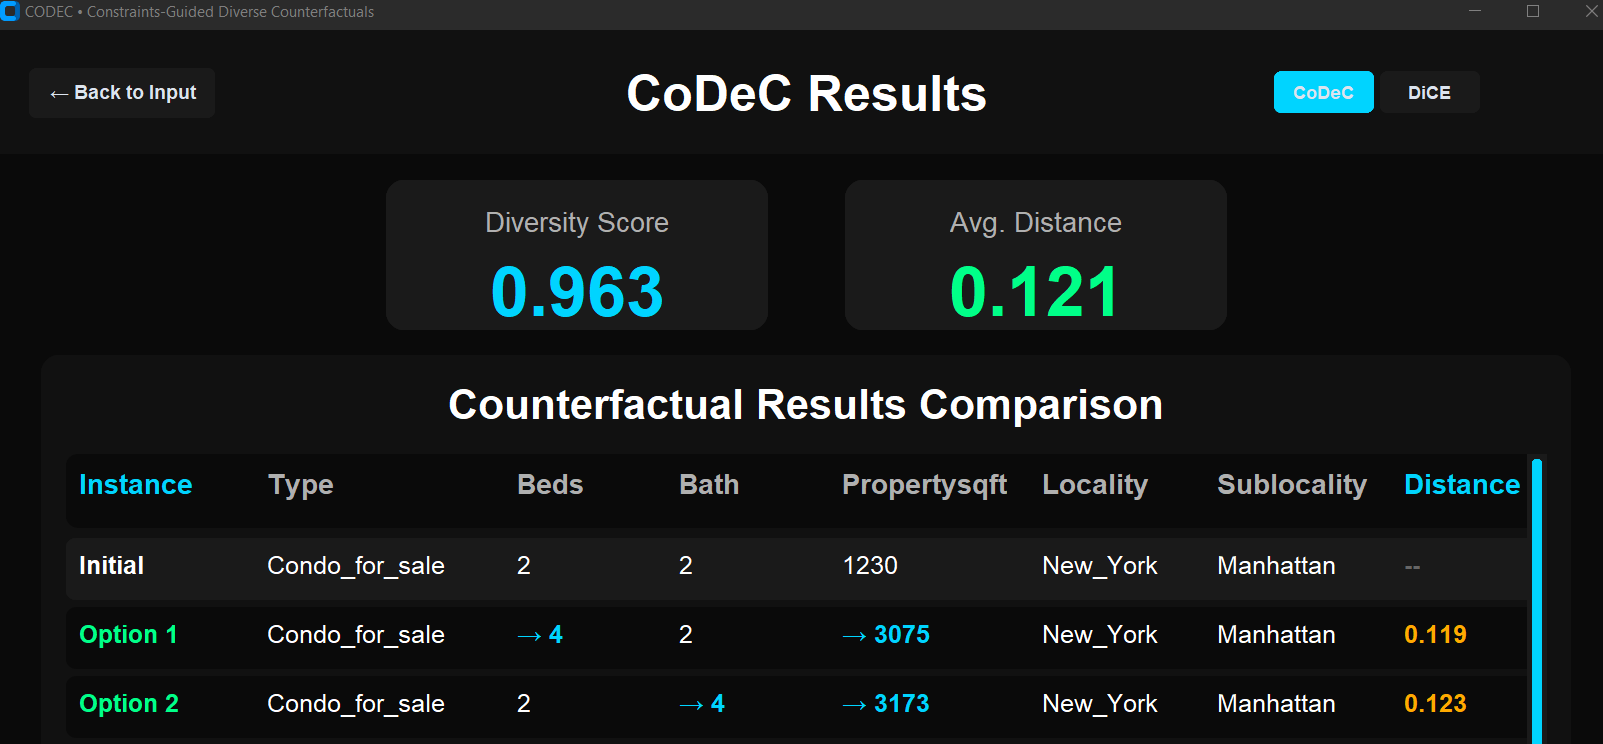
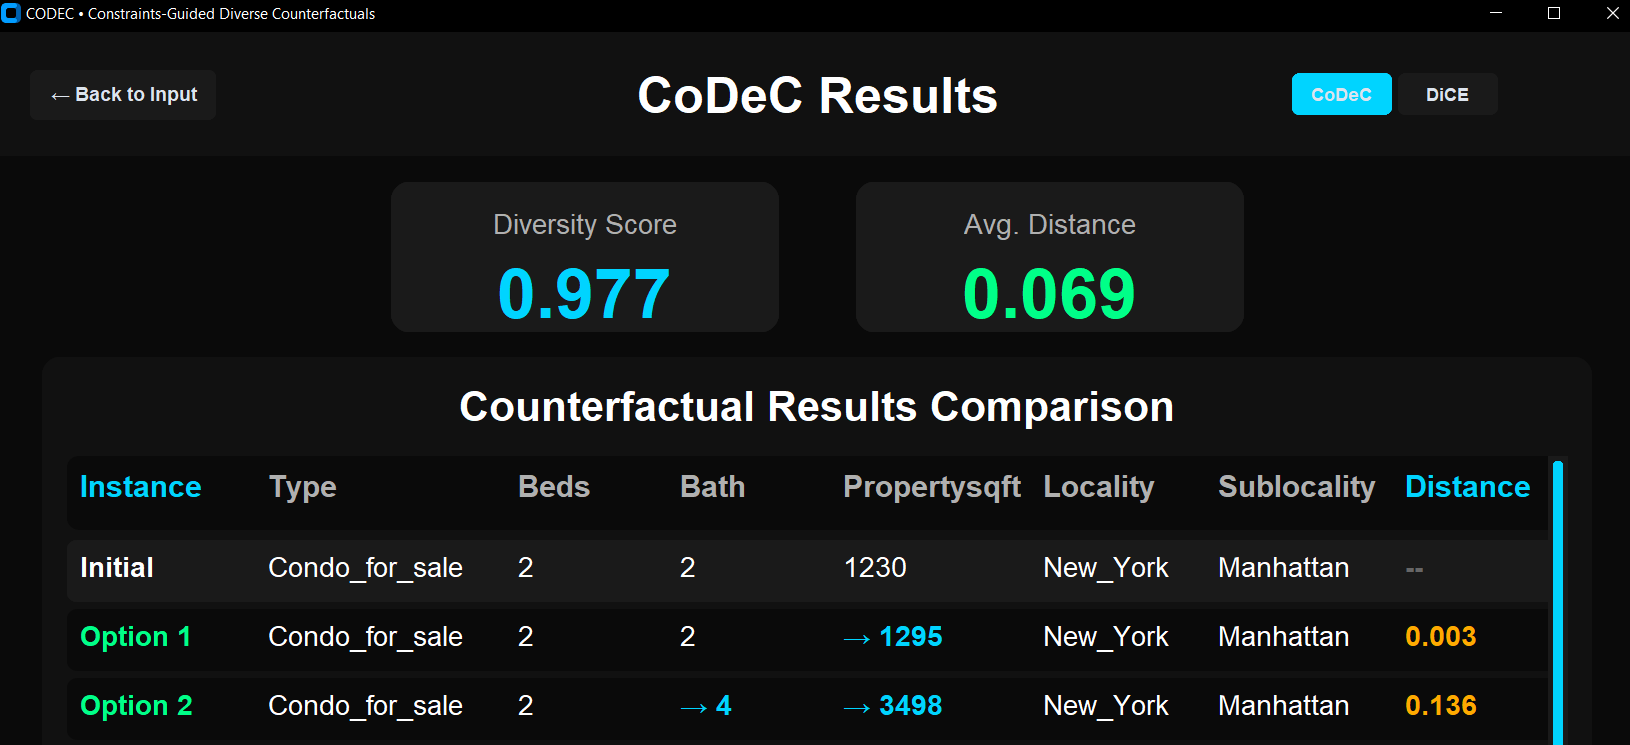
Determinism fixed

diff --git a/gui.py b/gui.py
@@ -24,9 +24,30 @@ import bisect
 from contextlib import contextmanager
 import numbers
 
-seed = 42
+seed = 1
 random.seed(seed)
 np.random.seed(seed)
+torch.manual_seed(seed)
+torch.cuda.manual_seed(seed)
+torch.cuda.manual_seed_all(seed)
+torch.backends.cudnn.deterministic = True
+torch.backends.cudnn.benchmark = False
+os.environ['PYTHONHASHSEED'] = str(seed)
+diversity_seed = seed
+import hashlib
+
+
+def deterministic_hash(obj):
+    """Create a deterministic hash for any object"""
+    if isinstance(obj, dict):
+        # Sort items to ensure consistent ordering
+        items = sorted(obj.items())
+        str_repr = str(items)
+    else:
+        str_repr = str(obj)
+
+    # Use MD5 for speed (truncate to fit in int32)
+    return int(hashlib.md5(str_repr.encode()).hexdigest()[:8], 16)
 
 def extract_names_and_conditions(line):
     constraints = []
@@ -230,19 +251,27 @@ def project_constraints_exact_fast(row, cf_example, fixed_feat, cont_feat, dic_c
     # More efficient: use numeric hash instead of string operations
     original_instance = cf_example.test_instance_df.iloc[0]
 
+    # Deterministic hashing
+    instance_data = {col: original_instance[col] for col in fixed_feat if col in original_instance.index}
+    instance_hash = deterministic_hash(instance_data)
+
+    row_hash = deterministic_hash(dict(sorted(row.items())))
+
+    projection_seed = ((instance_hash ^ row_hash) + diversity_seed * 1000000) % (2 ** 31)
+
     # Hash immutable parts (for consistency)
-    instance_hash = 0
-    for col in fixed_feat:
-        if col in original_instance.index:
-            instance_hash ^= hash((col, original_instance[col]))
-
-    # Hash current row (for diversity)
-    row_hash = 0
-    for col, val in row.items():
-        row_hash ^= hash((col, val))
-
-    # Combine with XOR (very fast)
-    projection_seed = (instance_hash ^ row_hash) % (2 ** 31)
+    # instance_hash = 0
+    # for col in fixed_feat:
+    #     if col in original_instance.index:
+    #         instance_hash ^= hash((col, original_instance[col]))
+    #
+    # # Hash current row (for diversity)
+    # row_hash = 0
+    # for col, val in row.items():
+    #     row_hash ^= hash((col, val))
+    #
+    # # Combine with XOR (very fast)
+    # projection_seed = (instance_hash ^ row_hash) % (2 ** 31)
     # print(f'$$$$$$$$$$$$$$$$$SEED IS {projection_seed}$$$$$$$$$$$$$$$$$$$$$')
     local_rng = np.random.RandomState(projection_seed)
     # Reset timeout flag and start timer
@@ -321,8 +350,8 @@ def project_constraints_exact_fast(row, cf_example, fixed_feat, cont_feat, dic_c
                     res = smart_project_optimized_safe(row_val, comb[-1], dataset, cont_feat, constraints, dic_cols, cons_function)
                     if res is not None:
                         row_val[comb[-1]] = res
-                        print('Success')
-                        print(row_val)
+                        # print('Success')
+                        # print(row_val)
                         return row_val
         else:
             return None
@@ -485,7 +514,7 @@ def timed_section(name, queue=None):
         queue.put({'type': 'progress', 'text': msg})
 
 def bfs_counterfactuals(exp, threshold, model, fixed_feat, exp_random, df, cont_feat, d, dic_cols, constraints,
-                        cons_function, cons_feat, unary_cons_lst_single,bin_cons, transformer, progress_queue=None):
+                        cons_function, cons_feat, unary_cons_lst_single,bin_cons, transformer, progress_queue=None,max_iter = 50):
     with timed_section("Projecting counterfactuals", progress_queue):
         projected_cfs = project_counterfactuals(exp, df, cont_feat, d, fixed_feat, dic_cols, constraints, cons_function,
                                                 cons_feat, unary_cons_lst_single,bin_cons)
@@ -520,10 +549,10 @@ def bfs_counterfactuals(exp, threshold, model, fixed_feat, exp_random, df, cont_
             try:
                 dice_exp_random = exp_random.generate_counterfactuals(not_accepted, total_CFs=threshold,
                                                                       desired_class=1,
-                                                                      verbose=True,
+                                                                      verbose=False,
                                                                       learning_rate=0.1,  # Increased
                                                                       min_iter=5,  # Reduced
-                                                                      max_iter=50,  # Reduced
+                                                                      max_iter=max_iter,  # Reduced
                                                                       features_to_vary=features_to_vary)
             except:
                 break
@@ -689,7 +718,7 @@ def smart_project(row_val, val_col, dataset, cont_feat, constraints, dic_cols, c
     return possible_values[0]
 
 def code_counterfactuals(query_instances, constraints_path, dataset_path, fixed_feat, k,
-                         model_cache, transformer_cache, constraints_cache, progress_queue=None):
+                         model_cache, transformer_cache, constraints_cache, progress_queue=None,max_iter = 50):
     """Modified to use caches and progress queue and return both DiCE and CoDeC results"""
 
     def send_progress(message):
@@ -755,7 +784,7 @@ def code_counterfactuals(query_instances, constraints_path, dataset_path, fixed_
             train_loader = DataLoader(
                 TensorDataset(torch.from_numpy(X_train_fixed), torch.Tensor(y_train.values.astype('int'))),
                 64, shuffle=True)
-            model = pretrain(model, 'cpu', train_loader, lr=1e-4, epochs=1000)
+            model = pretrain(model, 'cpu', train_loader, lr=1e-4, epochs=100)
             torch.save(model.state_dict(), model_state_dict_path)
             print('Model trained and saved to disk')
 
@@ -775,11 +804,12 @@ def code_counterfactuals(query_instances, constraints_path, dataset_path, fixed_
         query_instances,
         total_CFs=k,
         desired_class=1,
-        verbose=True,
+        verbose=False,
         features_to_vary=features_to_vary,
         min_iter=5,  # Reduced
-        max_iter=50,  # Reduced
+        max_iter=max_iter,  # Reduced
         learning_rate=0.1  # Increased
+        # learning_rate=5e-2  # Increased
     )
     dice_exp_random.cf_examples_list[0].final_cfs_df_sparse.to_csv('dice_gui.csv')
     with pd.option_context('display.max_rows', None,
@@ -791,13 +821,14 @@ def code_counterfactuals(query_instances, constraints_path, dataset_path, fixed_
     # STORE DICE RESULTS
     dice_cfs = dice_exp_random.cf_examples_list[0].final_cfs_df_sparse.drop('label', axis=1)
     dice_cfs_processed, dice_dpp_score, dice_distances = n_best_cfs_heuristic(dice_cfs, query_instances.iloc[0], k, transformer, exp_random)
+
     # with open('dice_gui_metrics.pkl', 'wb') as f:
     #     pickle.dump((dice_cfs_processed, dice_dpp_score, dice_distances), f)
 
     send_progress("Running BFS for constraint satisfaction")
     codec_cfs = bfs_counterfactuals(dice_exp_random, k, model, fixed_feat, exp_random, df, cont_feat, d,
                                    dic_cols, constraints, cons_function, cons_feat, unary_cons_lst_single, bin_cons, transformer,
-                                   progress_queue)
+                                   progress_queue,max_iter = max_iter)
 
     codec_cfs_processed, codec_dpp_score, codec_distances = n_best_cfs_heuristic(codec_cfs, query_instances.iloc[0], k, transformer, exp_random)
     # with open('codec_gui_metrics.pkl', 'wb') as f:
@@ -1559,6 +1590,20 @@ class ModernCounterfactualGUI:
         self.cf_count_label.configure(text=str(int(value)))
         self.num_counterfactuals.set(str(int(value)))
 
+    def set_initial_instance_defaults(self, default_values):
+        """Set default values for initial instance inputs"""
+        if not hasattr(self, 'initial_point_widgets') or not self.initial_point_widgets:
+            return
+
+        for column, value in default_values.items():
+            if column in self.initial_point_widgets:
+                widget = self.initial_point_widgets[column]
+                if isinstance(widget, ctk.CTkComboBox):
+                    widget.set(value)
+                else:  # CTkEntry
+                    widget.delete(0, 'end')
+                    widget.insert(0, value)
+
     def load_dataset_preview(self):
         """Load and display dataset preview"""
         try:
@@ -1573,6 +1618,40 @@ class ModernCounterfactualGUI:
 
             # Update features list
             self.setup_features_selection()
+
+            dataset_name = self.dataset_path.get()
+
+            if "nyhouse" in dataset_name:
+                # Set defaults for nyhouse dataset
+                default_values = {
+                    'type': 'Condo_for_sale',
+                    'beds': '1',
+                    'bath': '0',
+                    'propertysqft': '1230',
+                    'locality': 'Bronx_County',
+                    'sublocality': 'Manhattan'
+                }
+                self.set_initial_instance_defaults(default_values)
+
+            elif "adult_clean" in dataset_name:
+                # Set defaults for adult_clean dataset
+                default_values = {
+                    'age': '28',
+                    'workclass': 'State_gov',
+                    'education': 'Bachelors',
+                    'education_num': '13',
+                    # 'marital_status': 'Divorced',
+                    'marital_status': 'Married_civ_spouse',
+                    'occupation': 'Machine_op_inspct',
+                    # 'relationship': 'Husband',
+                    'relationship': 'Wife',
+                    'race': 'Black',
+                    'sex': 'Female',
+                    # 'hours_per_week': '1',
+                    'hours_per_week': '45',
+                    'native_country': 'United_States'
+                }
+                self.set_initial_instance_defaults(default_values)
 
         except Exception as e:
             print(f"Dataset loading error: {e}")  # Debug print
@@ -2425,7 +2504,8 @@ class ModernCounterfactualGUI:
                 model_cache=self.cached_models,
                 transformer_cache=self.cached_transformers,
                 constraints_cache=self.cached_constraints,
-                progress_queue=self.computation_queue
+                progress_queue=self.computation_queue,
+                max_iter = 15 if 'adult_clean' in self.dataset_path.get() else 500
             )
 
             # Extract both DiCE and CoDeC results
@@ -2647,7 +2727,7 @@ class ModernCounterfactualGUI:
         instance_header = ctk.CTkLabel(
             header_inner,
             text="Instance",
-            font=("SF Pro Display", 22, "bold"),
+            font=("SF Pro Display", 24, "bold"),
             text_color=self.colors['accent'],
             width=col_widths['Instance'],
             anchor='w'
@@ -2660,7 +2740,7 @@ class ModernCounterfactualGUI:
             header_label = ctk.CTkLabel(
                 header_inner,
                 text=feature.replace('_', ' ').title(),
-                font=("SF Pro Display", 22, "bold"),
+                font=("SF Pro Display", 24, "bold"),
                 text_color=self.colors['text_secondary'],
                 width=width,
                 anchor='w'
@@ -2671,7 +2751,7 @@ class ModernCounterfactualGUI:
         distance_header = ctk.CTkLabel(
             header_inner,
             text="Distance",
-            font=("SF Pro Display", 22, "bold"),
+            font=("SF Pro Display", 24, "bold"),
             text_color=self.colors['accent'],
             width=col_widths['Distance'],
             anchor='w'
@@ -2715,7 +2795,7 @@ class ModernCounterfactualGUI:
             instance_label = ctk.CTkLabel(
                 row_inner,
                 text=label_text,
-                font=("SF Pro Display", 20, "bold"),
+                font=("SF Pro Display", 22, "bold"),
                 text_color=label_color,
                 width=col_widths['Instance'],
                 anchor='w'
@@ -2745,7 +2825,7 @@ class ModernCounterfactualGUI:
                 value_label = ctk.CTkLabel(
                     row_inner,
                     text=value_text,
-                    font=("SF Pro Display", 20, "bold" if changed else "normal"),
+                    font=("SF Pro Display", 22, "bold" if changed else "normal"),
                     text_color=self.colors['accent'] if changed else self.colors['text_primary'],
                     width=width,
                     anchor='w'
@@ -2757,7 +2837,7 @@ class ModernCounterfactualGUI:
             dist_label = ctk.CTkLabel(
                 row_inner,
                 text=dist_text,
-                font=("SF Pro Display", 20, "bold"),
+                font=("SF Pro Display", 22, "bold"),
                 text_color=self.colors['warning'] if distance is not None else self.colors['text_dim'],
                 width=col_widths['Distance'],
                 anchor='w'
